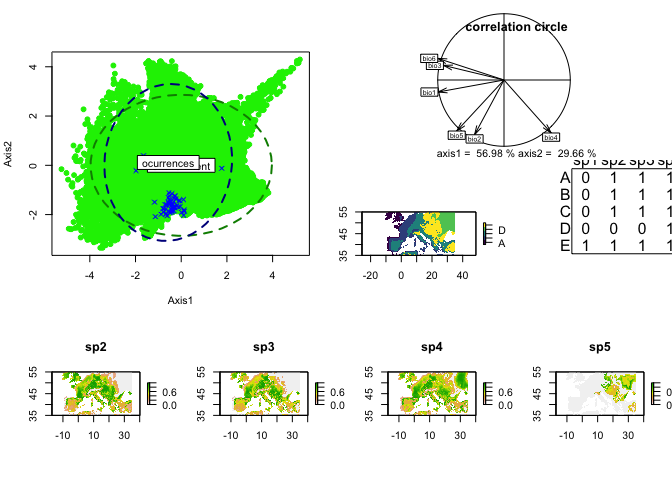
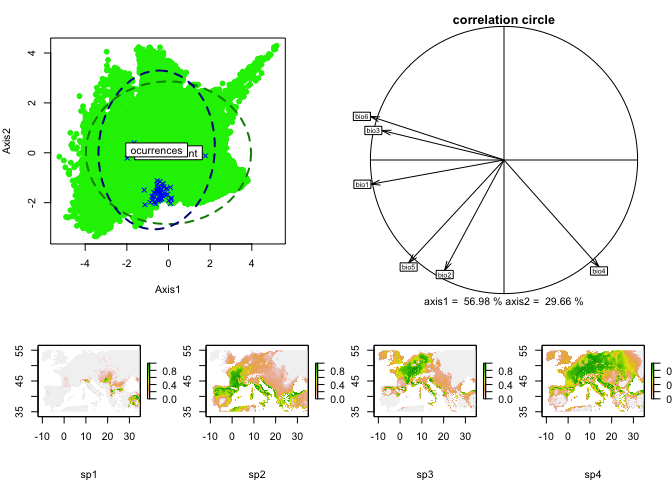
Added Readme

diff --git a/README.md b/README.md
@@ -42,176 +42,35 @@ library(NINA)
 Estimate Environmental Niche Models:
 
 ``` r
-g1_EN = EN_model(env_data, occ_data1,  cluster = "env", n.clus = 5)
+g1_EN = EN_model(env_data, occ_data1)
 #> Carrying out unique EN model...
 #> Occurrence dataset ... OK
 #> Environmental dataset ... OK
 #>  - Conforming environmental space...
-#>  - Clustering environmental variables...
-#>  - Regions:
-#> [1] "A" "B" "C" "D" "E"
-#>  - Carrying out species EN models in region A...
+#>  - Carrying out species EN models...
 #>      - Modelling spA Environmental Niche...
-#>      - Estimating spA niche response in region A...
 #>      - Modelling spB Environmental Niche...
-#>      - Estimating spB niche response in region A...
 #>      - Modelling spC Environmental Niche...
-#> Warning in EN_model_(env, occ, res = res, nstart = nstart, k.max = k.max, : Not
-#> enough observations of spC in region A.
 #>      - Modelling spD Environmental Niche...
-#>      - Estimating spD niche response in region A...
-#>  - Carrying out species EN models in region B...
-#>      - Modelling spA Environmental Niche...
-#>      - Estimating spA niche response in region B...
-#>      - Modelling spB Environmental Niche...
-#>      - Estimating spB niche response in region B...
-#>      - Modelling spC Environmental Niche...
-#>      - Estimating spC niche response in region B...
-#>      - Modelling spD Environmental Niche...
-#>      - Estimating spD niche response in region B...
-#>  - Carrying out species EN models in region C...
-#>      - Modelling spA Environmental Niche...
-#>      - Estimating spA niche response in region C...
-#>      - Modelling spB Environmental Niche...
-#>      - Estimating spB niche response in region C...
-#>      - Modelling spC Environmental Niche...
-#>      - Estimating spC niche response in region C...
-#>      - Modelling spD Environmental Niche...
-#>      - Estimating spD niche response in region C...
-#>  - Carrying out species EN models in region D...
-#>      - Modelling spA Environmental Niche...
-#>      - Estimating spA niche response in region D...
-#>      - Modelling spB Environmental Niche...
-#>      - Estimating spB niche response in region D...
-#>      - Modelling spC Environmental Niche...
-#> Warning in EN_model_(env, occ, res = res, nstart = nstart, k.max = k.max, : Not
-#> enough observations of spC in region D.
-#>  - Carrying out species EN models in region E...
-#>      - Modelling spA Environmental Niche...
-#>      - Estimating spA niche response in region E...
-#>      - Modelling spB Environmental Niche...
-#>      - Estimating spB niche response in region E...
-#>      - Modelling spC Environmental Niche...
-#>      - Estimating spC niche response in region E...
-#>      - Modelling spD Environmental Niche...
-#>      - Estimating spD niche response in region E...
-#> Warning in EN_model_(env, occ, res = res, nstart = nstart, k.max = k.max, :
-#> Model failed to predict the following species due to lack of observations
-#>      region species
-#> [1,] "A"    "spC"  
-#> [2,] "D"    "spC"
 #> Species EN models succesfully completed!
-```
-
-<img src="man/figures/README-ENmodels-1.png" width="100%" />
-
-``` r
-g2_EN = EN_model(env_data, occ_data2,  cluster = g1_EN$clus)
+g2_EN = EN_model(env_data, occ_data2)
 #> Carrying out unique EN model...
 #> Occurrence dataset ... OK
 #> Environmental dataset ... OK
 #>  - Conforming environmental space...
-#>  - Clustering based on provided regions...
-#>  - Regions:
-#> [1] "A" "B" "C" "D" "E"
-#>  - Carrying out species EN models in region A...
-#>      - Modelling sp2 Environmental Niche...
-#>      - Estimating sp2 niche response in region A...
-#>      - Modelling sp3 Environmental Niche...
-#>      - Estimating sp3 niche response in region A...
-#>      - Modelling sp4 Environmental Niche...
-#>      - Estimating sp4 niche response in region A...
-#>      - Modelling sp5 Environmental Niche...
-#> Warning in EN_model_(env, occ, res = res, nstart = nstart, k.max = k.max, : Not
-#> enough observations of sp5 in region A.
-#>  - Carrying out species EN models in region B...
+#>  - Carrying out species EN models...
 #>      - Modelling sp1 Environmental Niche...
-#> Warning in EN_model_(env, occ, res = res, nstart = nstart, k.max = k.max, : Not
-#> enough observations of sp1 in region B.
 #>      - Modelling sp2 Environmental Niche...
-#>      - Estimating sp2 niche response in region B...
 #>      - Modelling sp3 Environmental Niche...
-#>      - Estimating sp3 niche response in region B...
 #>      - Modelling sp4 Environmental Niche...
-#>      - Estimating sp4 niche response in region B...
 #>      - Modelling sp5 Environmental Niche...
-#> Warning in EN_model_(env, occ, res = res, nstart = nstart, k.max = k.max, : Not
-#> enough observations of sp5 in region B.
-#>  - Carrying out species EN models in region C...
-#>      - Modelling sp1 Environmental Niche...
-#> Warning in EN_model_(env, occ, res = res, nstart = nstart, k.max = k.max, : Not
-#> enough observations of sp1 in region C.
-#>      - Modelling sp2 Environmental Niche...
-#>      - Estimating sp2 niche response in region C...
-#>      - Modelling sp3 Environmental Niche...
-#>      - Estimating sp3 niche response in region C...
-#>      - Modelling sp4 Environmental Niche...
-#>      - Estimating sp4 niche response in region C...
-#>      - Modelling sp5 Environmental Niche...
-#> Warning in EN_model_(env, occ, res = res, nstart = nstart, k.max = k.max, : Not
-#> enough observations of sp5 in region C.
-#>  - Carrying out species EN models in region D...
-#>      - Modelling sp1 Environmental Niche...
-#> Warning in EN_model_(env, occ, res = res, nstart = nstart, k.max = k.max, : Not
-#> enough observations of sp1 in region D.
-#>      - Modelling sp4 Environmental Niche...
-#>      - Estimating sp4 niche response in region D...
-#>      - Modelling sp5 Environmental Niche...
-#>      - Estimating sp5 niche response in region D...
-#>  - Carrying out species EN models in region E...
-#>      - Modelling sp1 Environmental Niche...
-#>      - Estimating sp1 niche response in region E...
-#>      - Modelling sp2 Environmental Niche...
-#>      - Estimating sp2 niche response in region E...
-#>      - Modelling sp3 Environmental Niche...
-#>      - Estimating sp3 niche response in region E...
-#>      - Modelling sp4 Environmental Niche...
-#>      - Estimating sp4 niche response in region E...
-#>      - Modelling sp5 Environmental Niche...
-#>      - Estimating sp5 niche response in region E...
-#> Warning in EN_model_(env, occ, res = res, nstart = nstart, k.max = k.max, :
-#> Model failed to predict the following species due to lack of observations
-#>      region species
-#> [1,] "A"    "sp5"  
-#> [2,] "B"    "sp1"  
-#> [3,] "B"    "sp5"  
-#> [4,] "C"    "sp1"  
-#> [5,] "C"    "sp5"  
-#> [6,] "D"    "sp1"
 #> Species EN models succesfully completed!
 ```
 
 Correct EN models by biotic interactions:
 
 ``` r
-g2_BC <- BC_model(g2_EN, g1_EN, A.matrix = int_matrix, C.matrix = NULL, type = "region")
-#> Estimating biotic constrains of species in region A...
-#> Adding biotic constrains to sp2...
-#> Success!
-#> Adding biotic constrains to sp3...
-#> Success!
-#> Adding biotic constrains to sp4...
-#> Success!
-#> Estimating biotic constrains of species in region B...
-#> Adding biotic constrains to sp2...
-#> Success!
-#> Adding biotic constrains to sp3...
-#> Success!
-#> Adding biotic constrains to sp4...
-#> Success!
-#> Estimating biotic constrains of species in region C...
-#> Adding biotic constrains to sp2...
-#> Success!
-#> Adding biotic constrains to sp3...
-#> Success!
-#> Adding biotic constrains to sp4...
-#> Success!
-#> Estimating biotic constrains of species in region D...
-#> Adding biotic constrains to sp4...
-#> Success!
-#> Adding biotic constrains to sp5...
-#> Success!
-#> Estimating biotic constrains of species in region E...
+g2_BC <- BC_model(g2_EN, g1_EN, A.matrix = int_matrix,  type = "global")
 #> Adding biotic constrains to sp1...
 #> Success!
 #> Adding biotic constrains to sp2...
@@ -229,34 +88,7 @@ Transform environmental niche space into ecological niche space
 (prioritizing the effect of biotic interactions).
 
 ``` r
-g2_EC <- EC_model(g2_BC, type = "region")
-#> Transforming niche space of species in region A...
-#>  Estimating ecological niche of sp2...
-#>  Success!
-#>  Estimating ecological niche of sp3...
-#>  Success!
-#>  Estimating ecological niche of sp4...
-#>  Success!
-#> Transforming niche space of species in region B...
-#>  Estimating ecological niche of sp2...
-#>  Success!
-#>  Estimating ecological niche of sp3...
-#>  Success!
-#>  Estimating ecological niche of sp4...
-#>  Success!
-#> Transforming niche space of species in region C...
-#>  Estimating ecological niche of sp2...
-#>  Success!
-#>  Estimating ecological niche of sp3...
-#>  Success!
-#>  Estimating ecological niche of sp4...
-#>  Success!
-#> Transforming niche space of species in region D...
-#>  Estimating ecological niche of sp4...
-#>  Success!
-#>  Estimating ecological niche of sp5...
-#>  Success!
-#> Transforming niche space of species in region E...
+g2_EC <- EC_model(g2_BC, type = "global")
 #>  Estimating ecological niche of sp1...
 #>  Success!
 #>  Estimating ecological niche of sp2...
@@ -270,7 +102,7 @@ g2_EC <- EC_model(g2_BC, type = "region")
 #> Models successfully transformed!
 ```
 
-You can summarize the output by using function or :
+You can summarize the output by using `summary` function or `print`:
 
 ``` r
 summary(g1_EN)
@@ -300,22 +132,16 @@ summary(g1_EN)
 #> (Only 5 dimensions (out of 6) are shown)
 #> 
 #> Spatially constrained:
-#> TRUE
+#> FALSE
 #> Geographical extents:
-#> 5
-#>   spA spB spC spD
-#> A   1   1   0   1
-#> B   1   1   1   1
-#> C   1   1   1   1
-#> D   1   1   0   0
-#> E   1   1   1   1
+#> 1
+#> 
+#> spA spB spC spD 
+#>   1   1   1   1 
 #> Ensemble of regional models:
 #> FALSE
 #> Failures or warnings:
-#> TRUE
-#>      region species
-#> [1,] "A"    "spC"  
-#> [2,] "D"    "spC"  
+#> FALSE
 #> Models evaluation:
 #> FALSE
 print(g2_BC)
@@ -326,55 +152,40 @@ print(g2_BC)
 #> Predictors:
 #> bio1 bio2 bio3 bio4 bio5 bio6
 #> Spatially constrained:
-#> TRUE
+#> FALSE
 #> Geographical extents:
-#> 5
+#> 1
 #> Ensemble of regional models:
 #> FALSE
 #> Number of species:
 #> 5
 #> Failures or warnings:
-#> TRUE
+#> FALSE
 #> Models evaluation:
 #> FALSE
 ```
 
-You can also plot a summary of the output model using function:
+You can also plot a summary of the output model using `plot` function:
 
-    #> Ploting only the first four species maps of a total of 5TRUE
+    #> Ploting only the first four species maps of a total of 5
 
 <img src="man/figures/README-plot-1.png" width="100%" />
 
-Models can be evaluated using NINA’s function and visualize it by
-plotting the output.
+Models can be evaluated using NINA’s function `models_evaluation` and
+visualize it by plotting the output.
 
 ``` r
-eval <- models_evaluation(g2_EC, plot = F)
+eval <- models_evaluation(g2_BC, plot = F)
 #> Observations ... OK
 #> Environmental predictors ... OK
 #> Model predictions ... OK
 #> Sampling pseudo_absences...
-#> Warning in sum(new("RasterStack", filename = "", layers =
-#> list(new("RasterLayer", : Nothing to summarize if you provide a single
-#> RasterLayer; see cellStats
-#> Warning in sum(new("RasterStack", filename = "", layers =
-#> list(new("RasterLayer", : Nothing to summarize if you provide a single
-#> RasterLayer; see cellStats
-#> Warning in sum(new("RasterStack", filename = "", layers =
-#> list(new("RasterLayer", : Nothing to summarize if you provide a single
-#> RasterLayer; see cellStats
-#> Warning in sum(new("RasterStack", filename = "", layers =
-#> list(new("RasterLayer", : Nothing to summarize if you provide a single
-#> RasterLayer; see cellStats
-#> Warning in sum(new("RasterStack", filename = "", layers =
-#> list(new("RasterLayer", : Nothing to summarize if you provide a single
-#> RasterLayer; see cellStats
 #> Performing models evaluation...
+#>  ...Evaluating sp1 niche model...
 #>  ...Evaluating sp2 niche model...
 #>  ...Evaluating sp3 niche model...
 #>  ...Evaluating sp4 niche model...
 #>  ...Evaluating sp5 niche model...
-#>  ...Evaluating sp1 niche model...
 #> Models evaluation performed.
 plot(eval)
 ```
